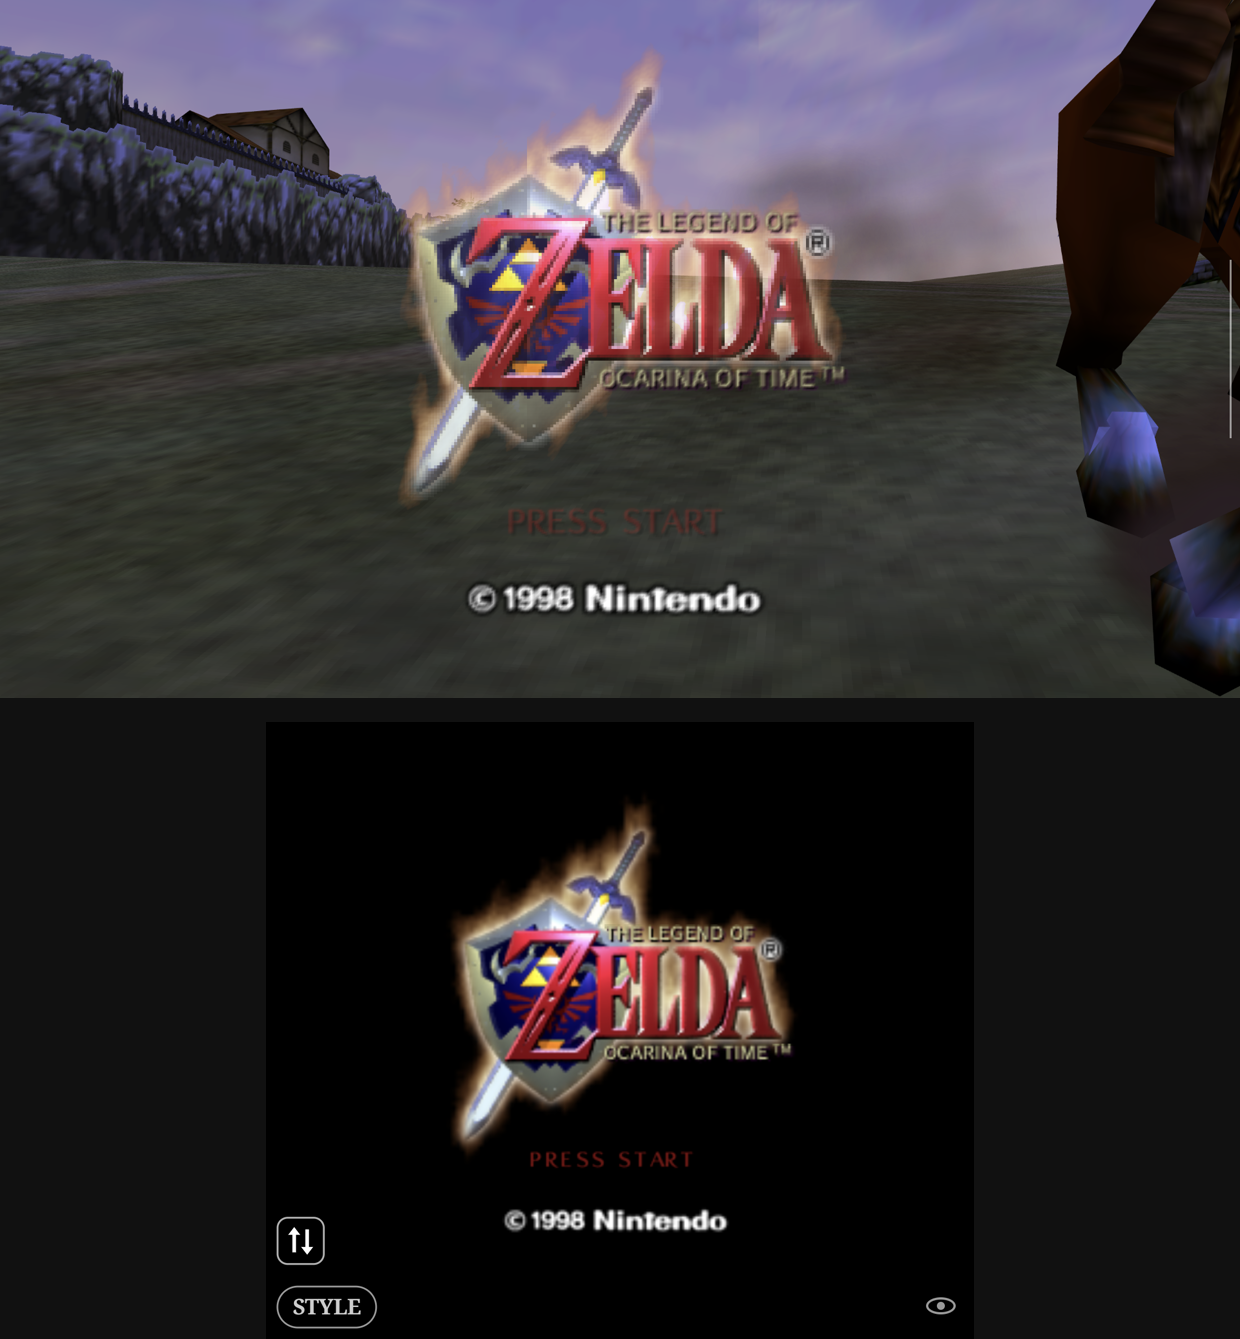
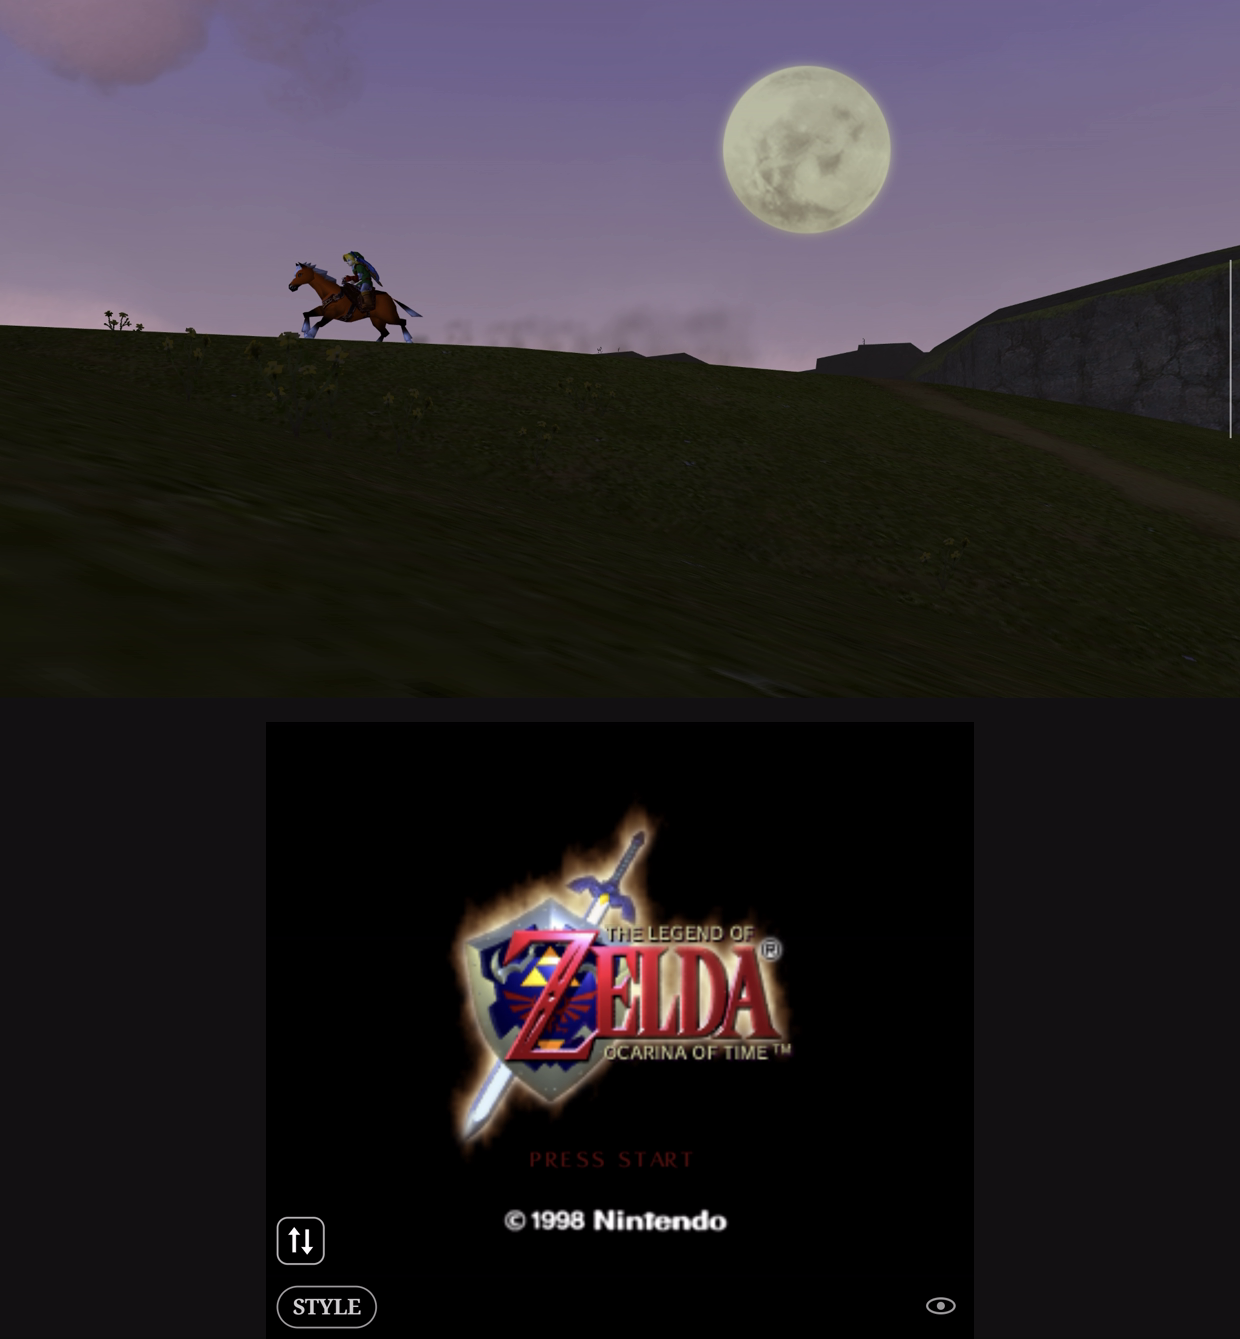
N64 look is now the default; new title screen picture (moonlit ride)

diff --git a/README.md b/README.md
@@ -62,19 +62,19 @@ Saves live in the **`SOH/Save`** folder on your device. Copy it somewhere safe n
 
 ![The 3DS-style ITEMS page, the N64-style Select Item page, and the N64-style Equipment page](images/second-screen-pages.png)
 
-### 3DS look (the default)
-
-- **PLAY page:** big **B** and **C** buttons. Tap or hold them to use your items.
-- **Ocarina button:** play the Ocarina, even when it isn't on a C button.
-- **Iron Boots and Hover Boots** switches.
-- **ITEMS page:** all your items. Tap an item, then a C button. Or drag it onto one.
-
-### N64 look
+### N64 look (the default)
 
 - The real pause-menu pages: **Items, Map, Quest, Equip**, drawn with the game's own art.
 - Tap gear on Equip to wear it.
 - Tap an item on Items, then pick a C button. Or flick the **right stick** left, down or right. Up, or a tap anywhere else, closes it.
 - The map shows where Link is, in the world and in dungeons.
+
+### 3DS look
+
+- **PLAY page:** big **B** and **C** buttons. Tap or hold them to use your items.
+- **Ocarina button:** play the Ocarina, even when it isn't on a C button.
+- **Iron Boots and Hover Boots** switches.
+- **ITEMS page:** all your items. Tap an item, then a C button. Or drag it onto one.
 
 The **Style** button switches between the two looks.
 
@@ -83,7 +83,7 @@ The **Style** button switches between the two looks.
 Game-art scenes on the second screen. The fairies follow your finger.
 
 <p>
-<img src="images/thor-title.png" alt="AYN Thor: title screen ride on top, the Zelda logo and PRESS START on the bottom" width="360">
+<img src="images/thor-title.png" alt="AYN Thor: the moonlit ride across Hyrule Field on top, the Zelda logo and PRESS START on the bottom" width="360">
 <img src="images/thor-file-select.png" alt="AYN Thor: file select on top, a cloudy sky with three fairies on the bottom" width="360">
 </p>
 
